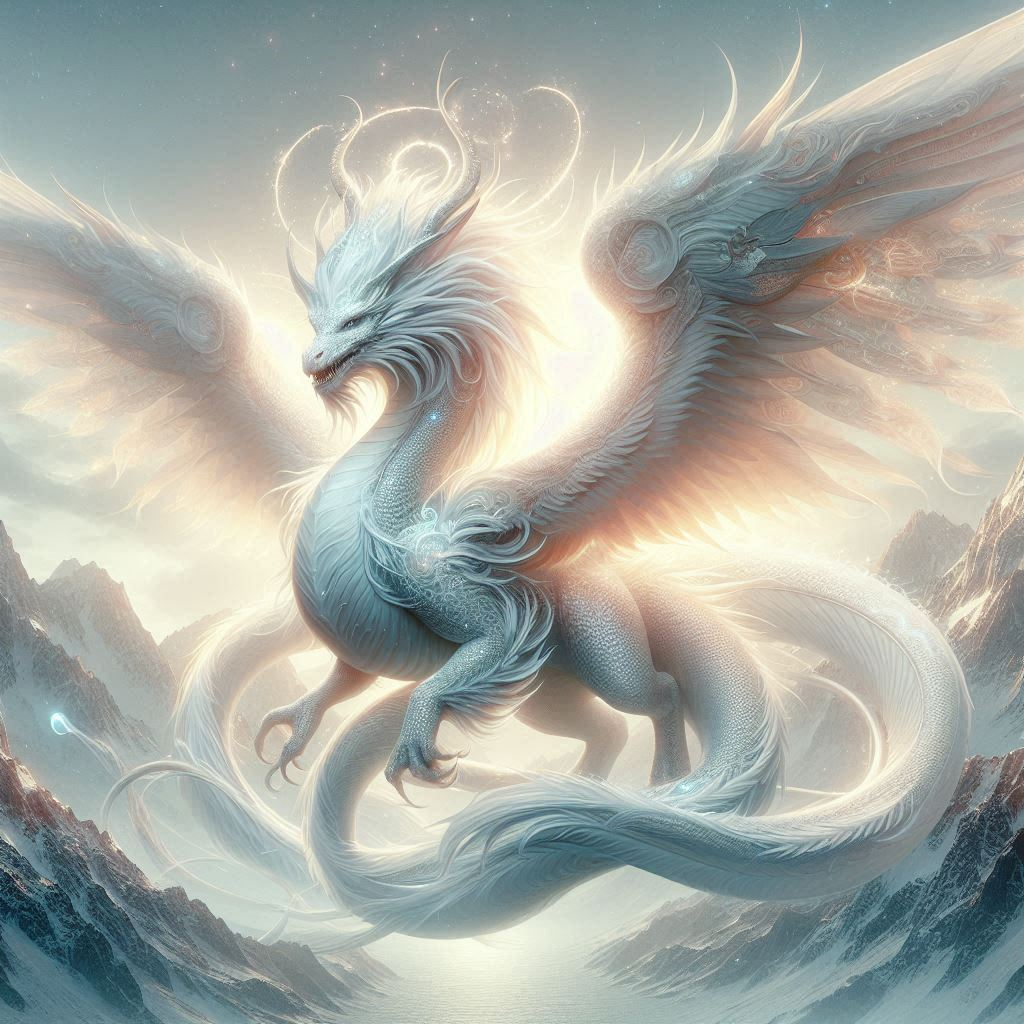
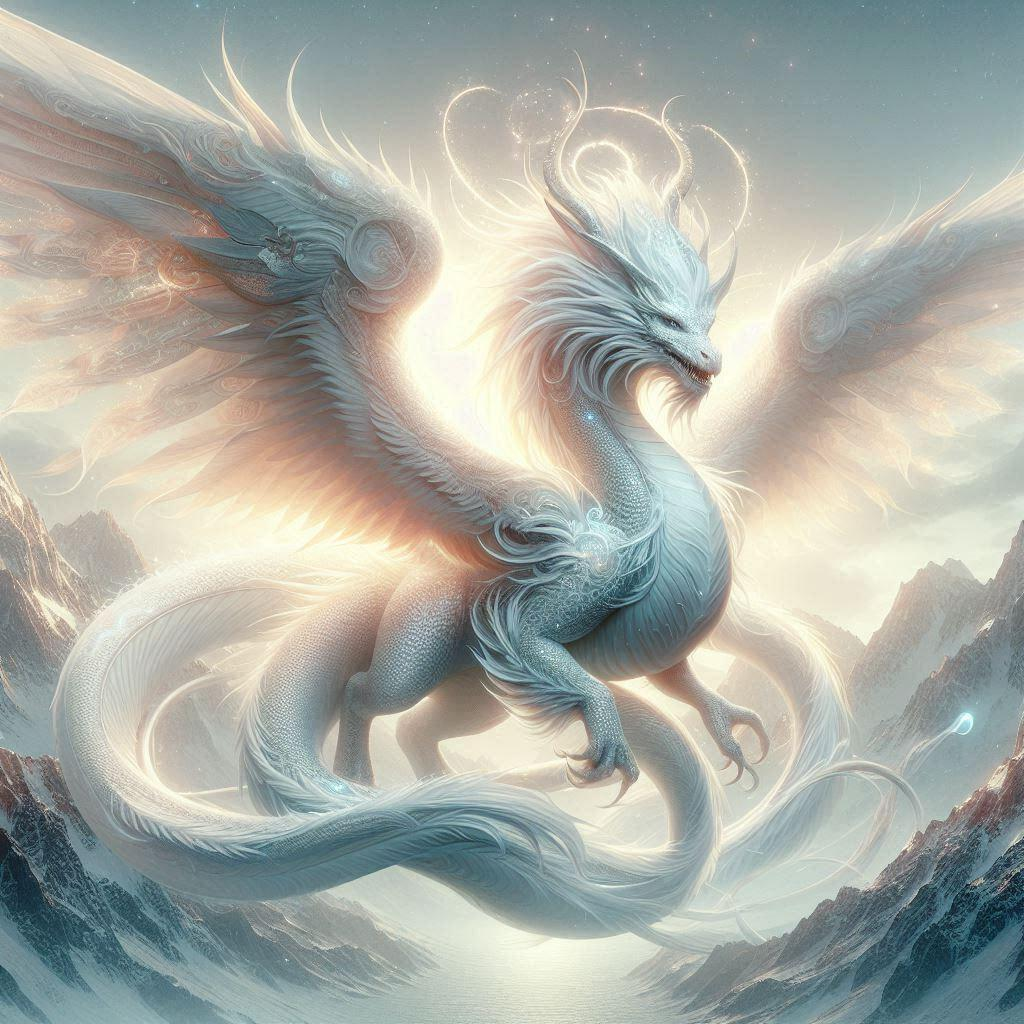
Added ability to flip images, relative file path handling, and general updates

diff --git a/bin/card_maker_ui.py b/bin/card_maker_ui.py
@@ -11,6 +11,8 @@ from generate_random_effects import load_and_filter_csv
 from generate_random_effects import get_random_effect
 from ttcg_tools import output_text
 from ttcg_tools import check_line_in_file
+from ttcg_tools import get_relative_path
+from flip_image import flip_image
 
 # Used for generating card preview.
 from create_card import create_card
@@ -27,10 +29,14 @@ import csv
 
 # Global var to determine when preview should be generated vs not.
 SKIP_PREVIEW = False
-    
+# Get script's directory (useful for relative paths)
+SCRIPT_DIR = os.path.dirname(os.path.abspath(__file__))
+output_text(f"SCRIPT_DIR set to: {SCRIPT_DIR}", "program")
+
     
 def get_card_data():
-    """Collect card data from GUI widgets into a dictionary.
+    """
+    Collect card data from GUI widgets into a dictionary.
 
     This function gathers input from various Tkinter widgets in the card creator UI and
     returns a dictionary containing the card's attributes. Empty or invalid inputs are
@@ -136,14 +142,19 @@ def save_to_card_list(filename):
         # Adjust subtypes for spell cards - it should have none.   
         if card_data["type"].lower() == "spell":
             card_data["subtype"] = ""
-
+        
+        image_path = card_data.get("image", "")
+        output_text(f"Full image path: {image_path}")
+        rel_image_path = get_relative_path(SCRIPT_DIR, image_path)
+        output_text(f"Relative path for image set to: {rel_image_path}", "note")
+        
         # Prepare the row data, adding a default 'RARITY' since it’s not in card_data
         row = [
             card_data.get("name", ""),
             card_data.get("type", ""),
             card_data.get("subtype", ""),
             card_data.get("level", ""),
-            card_data.get("image", ""),
+            rel_image_path,
             card_data.get("attack", ""),
             card_data.get("defense", ""),
             card_data.get("effect1", ""),
@@ -339,7 +350,7 @@ def get_selected_subtypes():
 
 def generate_effects(effect_buttons, input_file, columns, subtypes):
     """
-    Generate 15 random effects and populate the effect buttons.
+    Generate 18 random effects and populate the effect buttons.
 
     This function loads effects from a CSV file, filters them based on specified columns,
     and generates 10 unique random effects: up to 5 using subtypes as search strings,
@@ -360,7 +371,7 @@ def generate_effects(effect_buttons, input_file, columns, subtypes):
     generated_effects = []
 
     # Target: Up to 5 effects with subtypes, rest without
-    target_with_subtypes = 6
+    target_with_subtypes = 10
 
     # Generate up to 5 effects using subtypes as search strings
     if subtypes:  # Only if subtypes are provided
@@ -376,7 +387,7 @@ def generate_effects(effect_buttons, input_file, columns, subtypes):
             generated_effects.append(effect)
 
     # Generate remaining effects without search strings (up to 10 total)
-    remaining = 15 - len(generated_effects)
+    remaining = 18 - len(generated_effects)
     for _ in range(remaining):
         if not possible_effect_values or len(used_effects) >= len(possible_effect_values):
             break  # Stop if no more unique effects are available
@@ -639,6 +650,17 @@ def main():
         left_frame, text="Browse", command=lambda: browse_image()
     )
     browse_btn.grid(row=5, column=1, pady=8, padx=5, sticky="w")
+    
+    # Add Flip Image button
+    flip_btn = ttk.Button(
+        left_frame, 
+        text="Flip Image", 
+        command=lambda: [
+            flip_image(image_entry.get()),
+            update_preview()
+        ]
+    )
+    flip_btn.grid(row=5, column=1, pady=8, padx=(110, 0), sticky="w")  # Adjusted padx
 
     # ATK
     ttk.Label(left_frame, text="ATK:").grid(row=6, column=0, pady=8, padx=5, sticky="e")
@@ -755,9 +777,9 @@ def main():
     )
     generate_btn.grid(row=0, column=0, pady=12, padx=10, sticky="ew")  # Increased padding
 
-    # Effect buttons (15)
+    # Effect buttons (18)
     effect_buttons = []
-    for i in range(15):
+    for i in range(18):
         btn = ttk.Button(
             effects_frame,
             text="",

diff --git a/bin/ttcg_tools.py b/bin/ttcg_tools.py
@@ -12,7 +12,7 @@ def output_text(text, option="text"):
         text (str): The text to be printed.
         option (str, optional): The color option for the text. Valid options are "text" (default, no color), 
             "warning" (yellow), "error" (red), "note" (blue), "success" (green), "command" (cyan), 
-            and "test" (magenta). Defaults to "text". Invalid options result in uncolored text.
+            "test" (magenta), and "program" (orange). Defaults to "text". Invalid options result in uncolored text.
 
     Returns:
         None
@@ -28,7 +28,8 @@ def output_text(text, option="text"):
         "note": "\033[94m",     # Blue - Notes or program information
         "success": "\033[92m",  # Green - Success text
         "command": "\033[36m",  # Cyan - Command output text
-        "test": "\033[35m"      # Magenta - Testing
+        "test": "\033[35m",     # Magenta - Testing
+        "program": "\033[38;5;208m"  # Orange - Program-specific output
     }
 
     text = str(text)  # Ensure text is a string
@@ -233,3 +234,38 @@ def check_line_in_file(file_path, target_line):
         raise FileNotFoundError(f"The file '{file_path}' was not found.")
     except IOError as e:
         raise IOError(f"Error reading file '{file_path}': {e}")
+        
+        
+def get_relative_path(from_path, to_path):
+    """
+    Returns the relative path from one path (file or directory) to another.
+
+    Args:
+        from_path (str): The starting path (file or directory).
+        to_path (str): The target path (file or directory).
+
+    Returns:
+        str: The relative path from from_path to to_path.
+
+    Raises:
+        ValueError: If the paths are invalid or cannot be resolved on the current platform.
+
+    This method calculates the relative path from `from_path` to `to_path`. If `from_path` is a file,
+    the relative path is computed from its containing directory. If `from_path` is a directory,
+    it is used directly as the starting point.
+
+    Example:
+        from_path = '/home/user/project/bin'
+        to_path = '/home/user/project/images/file.jpg'
+        Returns: '../images/file.jpg'
+
+    Note: Uses `os.path.relpath()` to compute the relative path based on the operating system's path conventions.
+
+    Example usage:
+        relative_path = get_relative_path('/home/user/project/bin', '/home/user/project/images/file.jpg')
+        # Outputs in orange: 'Relative path: ../images/file.jpg'
+    """
+    # If from_path is a file, use its directory; if it's a directory, use it directly
+    start_dir = os.path.dirname(from_path) if os.path.isfile(from_path) else from_path
+    relative_path = os.path.relpath(to_path, start_dir)
+    return relative_path

diff --git a/bin/flip_image.py b/bin/flip_image.py
@@ -1,0 +1,50 @@
+#!/bin/python3
+
+import argparse
+from PIL import Image
+from ttcg_tools import output_text
+
+def flip_image(input_path, output_path=None):
+    """Flip an image horizontally and save it to a new file.
+
+    Args:
+        input_path (str): Path to the input image file
+        output_path (str, optional): Path where the flipped image will be saved. 
+                                   Defaults to None, which uses input_path.
+
+    Raises:
+        Exception: If there's an error opening or processing the image
+    """
+    try:
+        # If output_path is None, use input_path
+        if output_path is None:
+            output_path = input_path
+            
+        # Open the input image
+        with Image.open(input_path) as img:
+            # Flip the image horizontally
+            flipped_img = img.transpose(Image.FLIP_LEFT_RIGHT)
+            # Save the flipped image
+            flipped_img.save(output_path)
+            output_text(f"Image successfully flipped and saved as {output_path}", "success")
+    except Exception as e:
+        output_text(f"Error processing image: {str(e)}", "error")
+
+def main():
+    """Parse command line arguments and execute image flipping."""
+    # Set up argument parser
+    parser = argparse.ArgumentParser(description='Flip an image horizontally')
+    parser.add_argument('input_file', 
+                       help='Path to the input image file')
+    parser.add_argument('-o', '--output',
+                       default=None,
+                       help='Path for the output flipped image (default: same as input)')
+
+    # Parse arguments
+    args = parser.parse_args()
+
+    # Flip the image
+    flip_image(args.input_file, args.output)
+
+if __name__ == '__main__':
+    main()

diff --git a/bin/README.md b/bin/README.md
@@ -38,6 +38,12 @@ The `bin` directory serves as the central hub for executable scripts used in the
 - **Usage**: `python3 alphabetize_file.py [-i INPUT] [-o OUTPUT]`
 - **Dependencies**: None beyond Python 3.
 
+### `flip_image.py`
+- **Purpose**: Flips an image horizontally and saves the result, optionally overwriting the original file.
+- **Key Features**: Horizontal image flipping, optional output path, error handling for image processing.
+- **Usage**: `python3 flip_image.py INPUT_FILE [-o OUTPUT]`
+- **Dependencies**: Pillow (PIL) library for image processing.
+
 ### `create_effect_combinations.py`
 - **Purpose**: Generates all possible combinations of effect templates by replacing placeholders with values from a directory, with options for filtering, phrase replacement, deduplication, and alphabetization.
 - **Key Features**:
